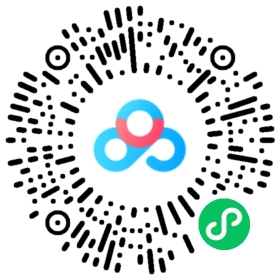
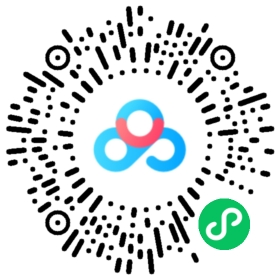
modify the description of C system

Changed region(s): [[0.0, 0.0286, 1.0, 0.8], [0.2286, 0.7143, 0.7143, 1.0]]

diff --git a/C/README.md b/C/README.md
@@ -1,12 +1,10 @@
 **summary**
     
-    This directory includes the AIMD trajectories of the Ni bulk 108 atomic system at temperatures of 300K(500 images), 1000K(500 images), and 200K(500 images)
+    This directory includes the AIMD trajectories of the C Slab 80 atomic system at temperatures of 300K(500 images), 1000K(500 images), and 2000K(500 images)
 
 **The data cloud drive link**
 
-      https://pan.baidu.com/s/1-YIO0lTseIvLm78mRLt4Tg?pwd=bfk7 
-   
-      Extracted code bfk7
+      https://pan.baidu.com/s/1-vXPh2MBxA1h2vWkVkStsA?pwd=pwmt 
 
    You could also scan this QR code to download.
 
